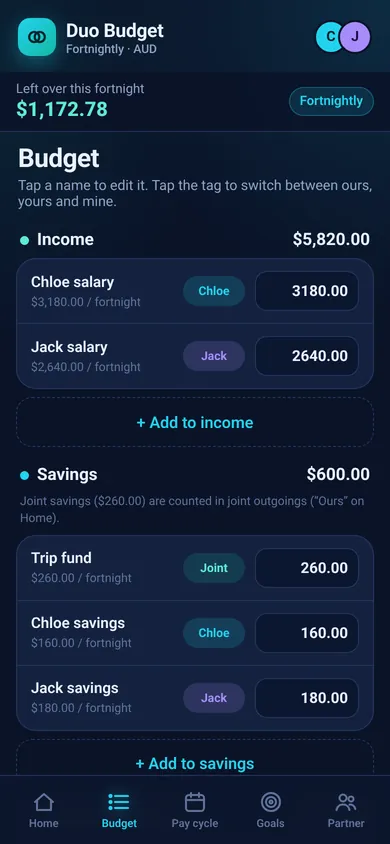
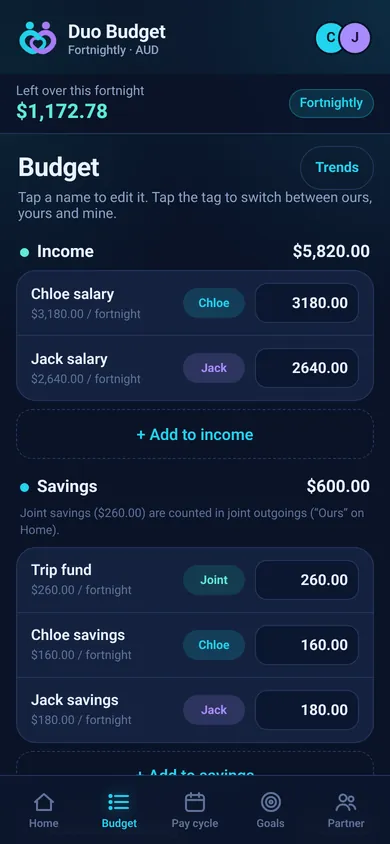
Waitlist: add Trends and iPad screenshots.
Replace waitlist/index.html and the phone screenshots, and add trends.webp, ipad-home.webp, and ipad-trends.webp. The index is the supplied file unchanged: 16,890 bytes, sha256 52f44a806c572b53724b0883d0705a25bdc1d646797bb27086c52f1b90693c97.

diff --git a/waitlist/index.html b/waitlist/index.html
@@ -38,6 +38,11 @@ h2{font-size:24px;margin:0 0 16px}
 .shots figure{margin:0;flex:0 0 72%;max-width:300px;scroll-snap-align:start}
 .shots img{width:100%;height:auto;aspect-ratio:390/844;border-radius:22px;border:1px solid var(--line);display:block;background:var(--bg2)}
 .shots figcaption{font-size:14px;color:var(--muted);margin-top:8px}
+.ipad{display:grid;grid-template-columns:1fr;gap:18px;margin-top:8px}
+.ipad figure{margin:0}
+.ipad img{width:100%;height:auto;aspect-ratio:1180/820;border-radius:16px;border:1px solid var(--line);display:block;background:var(--bg2)}
+.ipad figcaption{font-size:14px;color:var(--muted);margin-top:8px}
+h3.sub{font-size:18px;margin:28px 0 12px}
 .note{font-size:13px;color:var(--muted)}
 .card{background:var(--card);border:1px solid var(--line);border-radius:24px;padding:22px}
 label{display:block;font-weight:700;font-size:15px;margin:16px 0 6px}
@@ -62,7 +67,7 @@ input[aria-invalid=true]{border-color:#ff8a8a}
 .done h3{font-size:22px;margin:8px 0 6px}.done p{color:var(--muted);margin:0}
 footer{margin-top:44px;font-size:13px;color:var(--muted);border-top:1px solid var(--line);padding-top:18px}
 [hidden]{display:none!important}
-@media (min-width:720px){.row{grid-template-columns:1fr 1fr}.feats{grid-template-columns:repeat(3,1fr)}.shots{overflow:visible}.shots figure{flex:1 1 0}
+@media (min-width:720px){.row{grid-template-columns:1fr 1fr}.feats{grid-template-columns:repeat(3,1fr)}.shots{overflow:visible}.shots figure{flex:1 1 0}.ipad{grid-template-columns:1fr 1fr}
   .hero{display:grid;grid-template-columns:1.15fr .85fr;gap:36px;align-items:start}.hero .card{margin-top:14px}}
 </style>
 </head>
@@ -122,6 +127,12 @@ footer{margin-top:44px;font-size:13px;color:var(--muted);border-top:1px solid va
     <figure><img src="img/home.webp" width="390" height="844" loading="lazy" decoding="async" alt="Home screen showing what's left over this fortnight, where the money goes, and the next payday"><figcaption>Home: what's left this fortnight</figcaption></figure>
     <figure><img src="img/budget.webp" width="390" height="844" loading="lazy" decoding="async" alt="Budget screen with income and savings split into ours, yours and mine"><figcaption>Budget: ours, yours and mine</figcaption></figure>
     <figure><img src="img/goals.webp" width="390" height="844" loading="lazy" decoding="async" alt="Goals screen showing shared savings goals and each partner's contribution"><figcaption>Goals: saving together</figcaption></figure>
+    <figure><img src="img/trends.webp" width="390" height="844" loading="lazy" decoding="async" alt="Trends screen showing spending by category this fortnight, with each category compared to the plan"><figcaption>Trends: where it went each fortnight</figcaption></figure>
+  </div>
+  <h3 class="sub">On iPad</h3>
+  <div class="ipad">
+    <figure><img src="img/ipad-home.webp" width="1180" height="820" loading="lazy" decoding="async" alt="Home on iPad in landscape, with what's left over, totals, where the money goes, next payday and trends laid out side by side"><figcaption>Home: the whole fortnight at a glance</figcaption></figure>
+    <figure><img src="img/ipad-trends.webp" width="1180" height="820" loading="lazy" decoding="async" alt="Trends on iPad in landscape, with spending by category next to income vs spending and left at payday charts"><figcaption>Trends: spending and paydays over time</figcaption></figure>
   </div>
   <p class="note">Screens show sample data for a fictional couple, Chloe and Jack.</p>
 </section>
